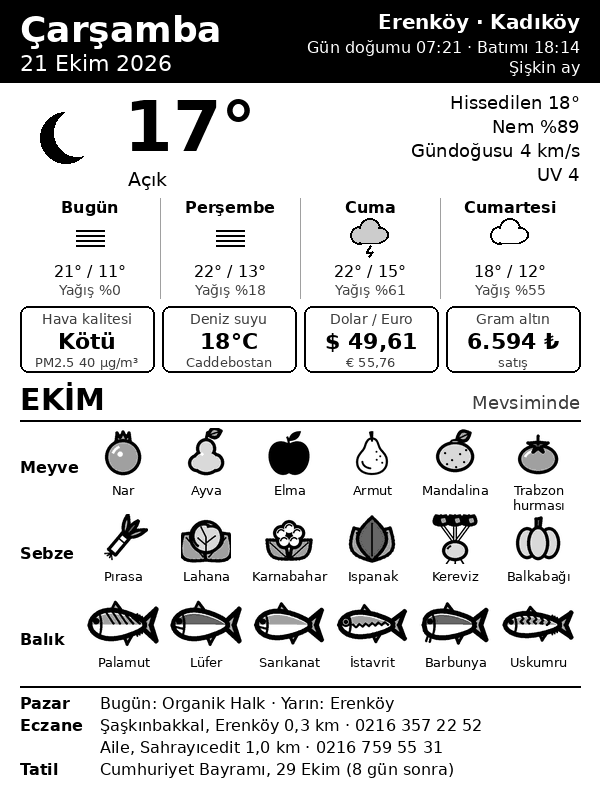
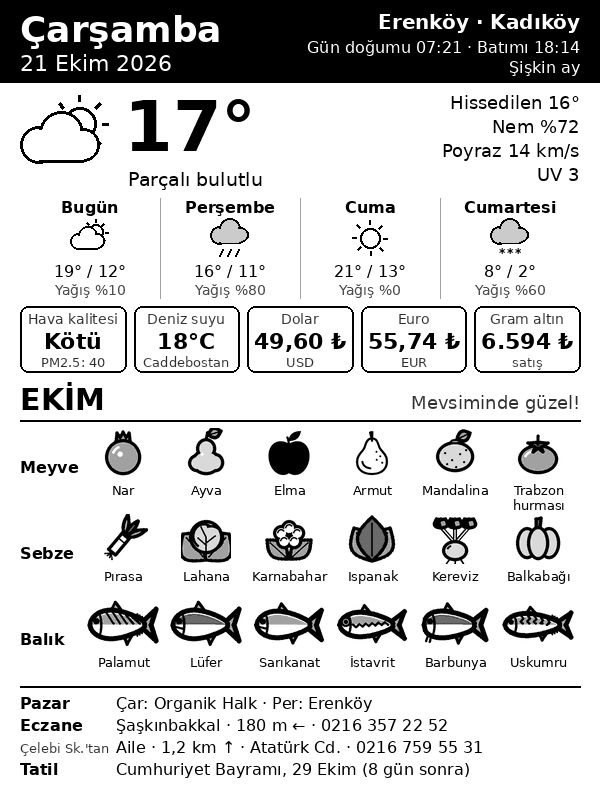
Pano: dolar/euro eşit kutucuklar, pazar gün adlarıyla, eczaneler Çelebi Sk.'ya göre
- Dolar ve Euro ayrı ve aynı boyutta kutucuklarda (önceden Euro alt
  satırda küçük yazıyordu).
- Pazar satırı 'Bugün/Yarın' yerine gün kısaltmalarıyla ('Çar: Organik
  Halk · Per: Erenköy'); pano gece güncellenmediği için 'Yarın'
  yanıltabiliyordu.
- Nöbetçi eczaneler Çelebi Sokağı'na (OSM: 40.97016, 29.08219) göre
  sıralanıyor; uzaklık (m/km), yön oku ve sokak adı gösteriliyor. Sokak
  sığmazsa önce o düşüyor, telefon kalıyor.
- 'Mevsiminde' -> 'Mevsiminde güzel!'

Claude-Session: https://claude.ai/code/session_01HEkCPgEXgkeb9FmMJQZoar

diff --git a/server/home_display.py b/server/home_display.py
@@ -196,9 +196,45 @@ def fetch_next_holiday(today: dt.date) -> tuple[dt.date, str] | None:
     return None
 
 
+def tr_title(text: str) -> str:
+    """'MİSAKI MİLLİ CD.' -> 'Misakı Milli Cd.' (Türkçe i/ı kurallarıyla)."""
+    low = text.replace("I", "ı").replace("İ", "i").lower()
+    return " ".join(w[:1].replace("i", "İ").replace("ı", "I").upper() + w[1:] for w in low.split())
+
+
+def street_of(address: str) -> str:
+    """Adresten cadde/sokak adını çıkarır ve kısaltır: 'Sahrayıcedid Mah. Atatürk Cad. No:46/A' -> 'Atatürk Cd.'"""
+    a = re.sub(r"(?i)\bno\s*:.*$", "", address or "")
+    a = re.sub(r"(?i)^.*?\bmah(?:allesi|\.)\s*", "", a)
+    a = a.lstrip(" ,.").split(",")[0].strip(" .")
+    m = re.search(r"(?i)^(.*?\b(?:cad(?:desi)?|cd|sok(?:ağı|ak)?|sk|bulvarı|blv))\.?(?:\s|$)", a)
+    if not m:
+        return ""
+    street = tr_title(m.group(1))
+    street = re.sub(r"(?i)\s+(caddesi|cad|cd)$", " Cd.", street)
+    street = re.sub(r"(?i)\s+(sokağı|sokak|sok|sk)$", " Sk.", street)
+    street = re.sub(r"(?i)\s+(bulvarı|blv)$", " Bulv.", street)
+    return street
+
+
+ARROWS = ["↑", "↗", "→", "↘", "↓", "↙", "←", "↖"]  # kuzey yukarıda
+
+
+def distance_bearing(lat0: float, lon0: float, lat: float, lon: float) -> tuple[float, str]:
+    dy = (lat - lat0) * 111.0
+    dx = (lon - lon0) * 111.0 * math.cos(math.radians(lat0))
+    deg = math.degrees(math.atan2(dx, dy)) % 360
+    return math.hypot(dx, dy), ARROWS[int((deg + 22.5) % 360 // 45)]
+
+
+def fmt_distance(km: float) -> str:
+    return f"{max(10, round(km * 100) * 10)} m" if km < 1 else f"{fmt_tr(km, 1)} km"
+
+
 def fetch_pharmacies(loc: dict, limit: int = 2) -> list[dict]:
-    """Kadıköy nöbetçi eczaneleri (nobetcieczane.org), Erenköy'e uzaklığa göre sıralı."""
+    """Kadıköy nöbetçi eczaneleri (nobetcieczane.org), evin (Çelebi Sk.) yakınından uzağa sıralı."""
     import html as htmllib
+    home = (loc.get("home_latitude", loc["latitude"]), loc.get("home_longitude", loc["longitude"]))
     r = requests.get("https://nobetcieczane.org/istanbul/kadikoy", headers=UA, timeout=HTTP_TIMEOUT)
     r.raise_for_status()
     cards = re.findall(r"<div class=\"pharm\"[^>]*data-pharm-card(.*?)>", r.text, re.S)
@@ -210,17 +246,14 @@ def fetch_pharmacies(loc: dict, limit: int = 2) -> list[dict]:
         attrs = {k: htmllib.unescape(v) for k, v in re.findall(r'data-eczane-([a-z-]+)="([^"]*)"', card)}
         if attrs.get("nobetci") != "1":
             continue
+        km = arrow = None
         try:
-            lat, lon = float(attrs["lat"]), float(attrs["lon"])
+            km, arrow = distance_bearing(*home, float(attrs["lat"]), float(attrs["lon"]))
         except (KeyError, ValueError):
-            lat = lon = None
-        km = None
-        if lat is not None:
-            dy = (lat - loc["latitude"]) * 111.0
-            dx = (lon - loc["longitude"]) * 111.0 * math.cos(math.radians(loc["latitude"]))
-            km = math.hypot(dx, dy)
+            pass
         out.append({"ad": attrs.get("ad", ""), "semt": attrs.get("semt", ""),
-                    "tel": attrs.get("telefon", ""), "km": km,
+                    "tel": attrs.get("telefon", ""), "km": km, "yon": arrow,
+                    "sokak": street_of(attrs.get("adres", "")),
                     "baslangic": attrs.get("baslangic", "")})
     if not out:
         raise ValueError("nöbetçi işaretli eczane yok")
@@ -448,15 +481,15 @@ def render_report(cfg: dict) -> tuple[Image.Image, list[str]]:
     def draw_tiles(y: int) -> int:
         tiles: list[tuple[str, str, str]] = []
         if air:
-            sub = f"PM2.5 {round(air['pm2_5'])} µg/m³" if air["pm2_5"] is not None else ""
+            sub = f"PM2.5: {round(air['pm2_5'])}" if air["pm2_5"] is not None else ""
             tiles.append(("Hava kalitesi", aqi_label(air["aqi"]), sub))
         if sea is not None:
             tiles.append(("Deniz suyu", f"{round(sea)}°C", loc.get("sea_name", "")))
         if fin:
-            if "USD" in fin or "EUR" in fin:
-                main = f"$ {fmt_tr(fin['USD'])}" if "USD" in fin else f"€ {fmt_tr(fin['EUR'])}"
-                sub = f"€ {fmt_tr(fin['EUR'])}" if "USD" in fin and "EUR" in fin else ""
-                tiles.append(("Dolar / Euro" if sub else ("Dolar" if "USD" in fin else "Euro"), main, sub))
+            if "USD" in fin:
+                tiles.append(("Dolar", f"{fmt_tr(fin['USD'])} ₺", "USD"))
+            if "EUR" in fin:
+                tiles.append(("Euro", f"{fmt_tr(fin['EUR'])} ₺", "EUR"))
             if "ALTIN" in fin:
                 tiles.append(("Gram altın", f"{fmt_tr(fin['ALTIN'], 0)} ₺", "satış"))
         if not tiles:
@@ -481,7 +514,7 @@ def render_report(cfg: dict) -> tuple[Image.Image, list[str]]:
     d.text((M, y), tr_upper(AYLAR[today.month - 1]), font=font(30, True), fill=0)
     note = local_data.balik_notu(today)
     month_w = int(d.textlength(tr_upper(AYLAR[today.month - 1]), font=font(30, True)))
-    d.text((W - M, y + 10), ellipsize(d, "Mevsiminde" + (f" · {note}" if note else ""), font(18), CW - month_w - 16),
+    d.text((W - M, y + 10), ellipsize(d, "Mevsiminde güzel!" + (f" · {note}" if note else ""), font(18), CW - month_w - 16),
            font=font(18), fill=60, anchor="ra")
     y += 38
     d.line([M, y, W - M, y], fill=0, width=2)
@@ -518,25 +551,31 @@ def render_report(cfg: dict) -> tuple[Image.Image, list[str]]:
     d.line([M, y, W - M, y], fill=0, width=2)
     y += 8
     rows: list[tuple[str, str]] = []
-    bugun = [p.removesuffix(" Pazarı") for p in local_data.pazarlar(today)]
-    yarin = [p.removesuffix(" Pazarı") for p in local_data.pazarlar(today + dt.timedelta(days=1))]
+    # Pazarlar gün adıyla yazılır ("Per: Erenköy"): pano gece güncellenmediği için "yarın" yanıltabilir
     pazar = []
-    if bugun:
-        pazar.append("Bugün: " + ", ".join(bugun))
-    if yarin:
-        pazar.append("Yarın: " + ", ".join(yarin))
+    for offset in (0, 1):
+        day = today + dt.timedelta(days=offset)
+        names = [p.removesuffix(" Pazarı") for p in local_data.pazarlar(day)]
+        if names:
+            pazar.append(f"{GUN_KISA[day.weekday()]}: " + ", ".join(names))
     if not any("Erenköy" in p for p in pazar):
-        pazar.append(f"Erenköy {(3 - today.weekday()) % 7} gün sonra")
+        pazar.append("Per: Erenköy")
     rows.append(("Pazar", " · ".join(pazar)))
+    home_name = loc.get("home_name", "")
+    LABEL_W = 96
+    text_w = CW - LABEL_W
     for i, e in enumerate(pharmacies or []):
         name = re.sub(r"(?i)\s+eczanes[iİ]$", "", e["ad"]).strip() or "Eczane"
-        parts = [name + (f", {e['semt']}" if e["semt"] else "")]
-        if e["km"] is not None:
-            parts[0] += f" {fmt_tr(e['km'], 1)} km"
+        dist = f"{fmt_distance(e['km'])} {e['yon']}" if e["km"] is not None else ""
+        place = e.get("sokak") or e["semt"]
         tel = re.sub(r"^0\s*\((\d{3})\)\s*", r"0\1 ", e["tel"]).strip()
-        if tel:
-            parts.append(tel)
-        rows.append(("Eczane" if i == 0 else "", " · ".join(parts)))
+        # Sığmazsa önce sokak adından vazgeçilir; telefon ve uzaklık kalır
+        for parts in ([name, dist, place, tel], [name, dist, tel], [name, dist, place], [name, dist]):
+            text = " · ".join(p for p in parts if p)
+            if d.textlength(text, font=font(16)) <= text_w:
+                break
+        label = "Eczane" if i == 0 else (f"{home_name}'tan" if home_name and i == 1 else "")
+        rows.append((label, text))
     if holiday:
         hday, hname = holiday
         left = (hday - today).days
@@ -547,8 +586,14 @@ def render_report(cfg: dict) -> tuple[Image.Image, list[str]]:
     for label, text in rows:
         if y + 20 > bottom:
             break
-        d.text((M, y), label, font=font(16, True), fill=0)
-        d.text((M + 80, y), ellipsize(d, text, font(16), CW - 80), font=font(16), fill=0)
+        if label.endswith("'tan"):  # "Çelebi Sk.'tan": eczane uzaklıklarının referansı
+            size = 13
+            while size > 10 and d.textlength(label, font=font(size)) > LABEL_W - 4:
+                size -= 1
+            d.text((M, y + 2), ellipsize(d, label, font(size), LABEL_W - 4), font=font(size), fill=60)
+        else:
+            d.text((M, y), label, font=font(16, True), fill=0)
+        d.text((M + LABEL_W, y), ellipsize(d, text, font(16), CW - LABEL_W), font=font(16), fill=0)
         y += 22
 
     if errors:

diff --git a/tests/test_units.py b/tests/test_units.py
@@ -360,3 +360,57 @@ def test_config_is_valid():
         assert isinstance(loc[k], float)
     assert math.dist((loc["latitude"], loc["longitude"]), (40.97, 29.08)) < 0.05, "konum Erenköy olmalı"
     assert "rotate" not in cfg["display"]
+
+
+# ------------------------------------------------------------------ eczane konumu (Çelebi Sk.'ya göre)
+
+@pytest.mark.parametrize("address,expected", [
+    ("Sahrayıcedid Mah. Atatürk Cad. No:46/A", "Atatürk Cd."),
+    ("OSMANAĞA MAH.MİSAKI MİLLİ CD. TALİMHANE SK.NO 5/B KADIKÖY", "Misakı Milli Cd."),
+    ("ERENKÖY MAH. KANTARCI RIZA SOK. NO:18/C", "Kantarcı Rıza Sk."),
+    ("19 Mayıs Mahallesi, Şemsettin Günaltay Caddesi No:188/B", "Şemsettin Günaltay Cd."),
+    ("Koşuyolu Mahallesi, Alidede Sokak No:9/A", "Alidede Sk."),
+    ("HASANPAŞA MAH. SÖĞÜTLÜÇEŞME CAD. NO:178/A", "Söğütlüçeşme Cd."),
+    ("", ""), ("sadece metin", ""), ("No:5", ""),
+])
+def test_street_of(address, expected):
+    assert hd.street_of(address) == expected
+
+
+def test_tr_title():
+    assert hd.tr_title("MİSAKI MİLLİ İNÖNÜ IŞIK") == "Misakı Milli İnönü Işık"
+
+
+@pytest.mark.parametrize("dlat,dlon,arrow", [
+    (0.01, 0, "↑"), (-0.01, 0, "↓"), (0, 0.01, "→"), (0, -0.01, "←"),
+    (0.007, 0.009, "↗"), (-0.007, -0.009, "↙"),
+])
+def test_distance_bearing_directions(dlat, dlon, arrow):
+    km, a = hd.distance_bearing(40.97016, 29.08219, 40.97016 + dlat, 29.08219 + dlon)
+    assert a == arrow and km > 0
+
+
+def test_distance_bearing_known():
+    # Çelebi Sk. -> Aile Eczanesi (Sahrayıcedit) ~1,2 km kuzey
+    km, a = hd.distance_bearing(40.97016, 29.08219, 40.981181, 29.084487)
+    assert 1.1 < km < 1.35 and a == "↑"
+
+
+@pytest.mark.parametrize("km,text", [(0.0001, "10 m"), (0.183, "180 m"), (0.996, "1000 m"), (1.0, "1,0 km"),
+                                     (1.234, "1,2 km"), (12.0, "12,0 km")])
+def test_fmt_distance(km, text):
+    assert hd.fmt_distance(km) == text
+
+
+def test_pharmacies_measured_from_home_not_weather_point(monkeypatch):
+    loc = dict(LOC, home_latitude=41.05, home_longitude=29.00)  # Moda tarafı
+    monkeypatch.setattr(hd.requests, "get", lambda *a, **k: _Resp(PHARM_HTML))
+    out = hd.fetch_pharmacies(loc, limit=3)
+    assert out[0]["semt"] == "Moda", "en yakın eczane ev konumuna göre seçilmeli"
+    assert out[0]["sokak"] == "" and out[1]["sokak"] in ("Ethem Efendi Cd.", "Atatürk Cd.")
+
+
+def test_config_has_celebi_home():
+    loc = hd.load_config()["location"]
+    assert loc["home_name"] == "Çelebi Sk."
+    assert hd.distance_bearing(loc["home_latitude"], loc["home_longitude"], 40.9736, 29.0770)[0] < 1

diff --git a/tests/test_render.py b/tests/test_render.py
@@ -359,3 +359,48 @@ def test_layout_fits_vertically_in_worst_case(net, frozen, cfg, monkeypatch):
     footer = img.crop((0, H - 22, W, H))
     above = img.crop((0, H - 50, W, H - 24))
     assert text_of(footer) > 30 and text_of(above) > 30
+
+
+# ------------------------------------------------------------------ istenen gösterim değişiklikleri
+
+def _texts(monkeypatch, cfg):
+    drawn = []
+    real = hd.ImageDraw.ImageDraw.text
+
+    def spy(self, xy, text, *a, **k):
+        drawn.append((text, k.get("font").size if k.get("font") else None))
+        return real(self, xy, text, *a, **k)
+    monkeypatch.setattr(hd.ImageDraw.ImageDraw, "text", spy)
+    hd.render_report(cfg)
+    return drawn
+
+
+def test_dollar_and_euro_have_same_hierarchy(net, frozen, cfg, monkeypatch):
+    drawn = dict(_texts(monkeypatch, cfg))
+    assert drawn.get("Dolar") == drawn.get("Euro"), "etiketler aynı boyutta"
+    usd = next(s for t, s in _texts(monkeypatch, cfg) if t.startswith("49,60"))
+    eur = next(s for t, s in _texts(monkeypatch, cfg) if t.startswith("55,74"))
+    assert usd == eur, "değerler aynı boyutta"
+
+
+def test_seasonal_heading_text(net, frozen, cfg, monkeypatch):
+    assert any(t.startswith("Mevsiminde güzel!") for t, _ in _texts(monkeypatch, cfg))
+
+
+@pytest.mark.parametrize("day,expected", [
+    (21, "Çar: Organik Halk · Per: Erenköy"),            # çarşamba: yarın Erenköy, gün adıyla
+    (22, "Per: Erenköy · Cum: Kozyatağı, Salı"),          # perşembe: bugün Erenköy
+    (24, "Cmt: Sahrayıcedit · Paz: Koşuyolu · Per: Erenköy"),
+])
+def test_market_line_uses_day_names(net, cfg, monkeypatch, day, expected):
+    from conftest import freeze
+    freeze(monkeypatch, real_dt.datetime(2026, 10, day, 9, 7))
+    texts = [t for t, _ in _texts(monkeypatch, cfg)]
+    assert expected in texts, [t for t in texts if "Erenköy" in t]
+    assert not any("Yarın" in t for t in texts)
+
+
+def test_pharmacy_rows_reference_celebi(net, frozen, cfg, monkeypatch):
+    texts = [t for t, _ in _texts(monkeypatch, cfg)]
+    assert "Çelebi Sk.'tan" in texts
+    assert any(t.startswith("Şaşkınbakkal · ") and " m " in t and "0216 357 22 52" in t for t in texts)

diff --git a/tests/conftest.py b/tests/conftest.py
@@ -39,12 +39,14 @@ PHARM_HTML = """
 <div class="pharm" role="button" tabindex="0"
      data-pharm-card
      data-eczane-ad="Şaşkınbakkal Eczanesi"
+     data-eczane-adres="Erenköy Mah. Ethem Efendi Cad. No:84/A"
      data-eczane-telefon="0 (216) 357 22 52"
      data-eczane-lat="40.9700" data-eczane-lon="29.0800"
      data-eczane-semt="Erenköy" data-eczane-nobetci="1">
 <div class="pharm" role="button" tabindex="0"
      data-pharm-card
      data-eczane-ad="Aile Eczanesi"
+     data-eczane-adres="Sahrayıcedid Mah. Atatürk Cad. No:46/A"
      data-eczane-telefon="0 (216) 759 55 31"
      data-eczane-lat="40.981181" data-eczane-lon="29.084487"
      data-eczane-semt="Sahrayıcedit" data-eczane-nobetci="1">
